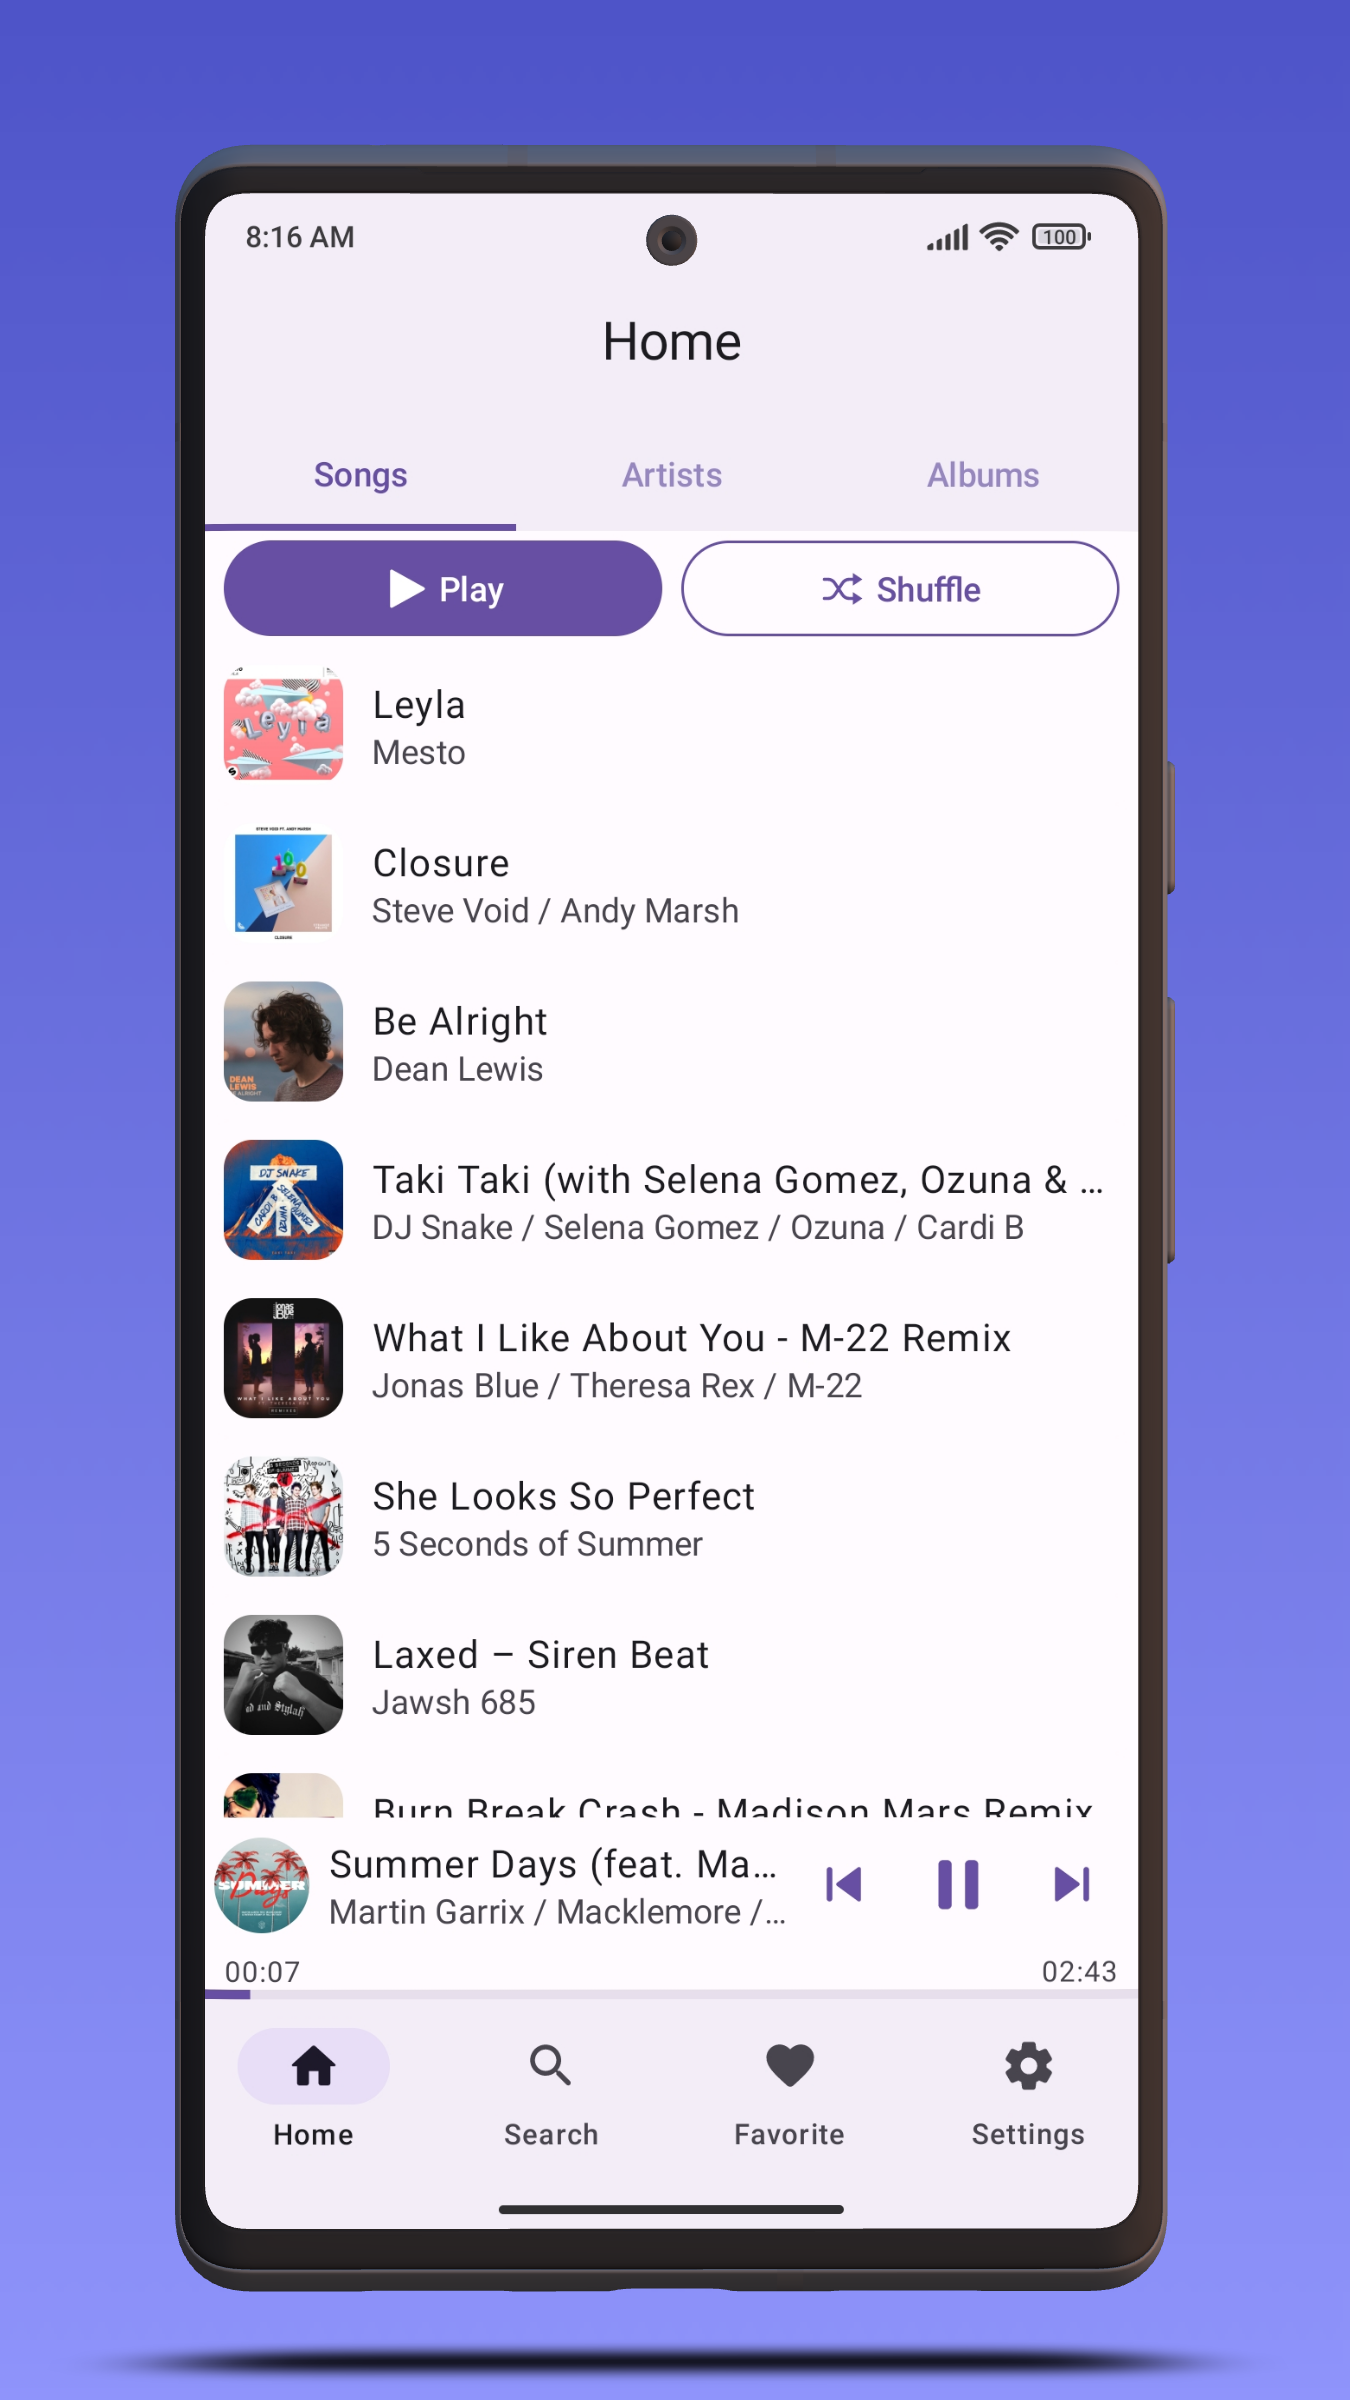
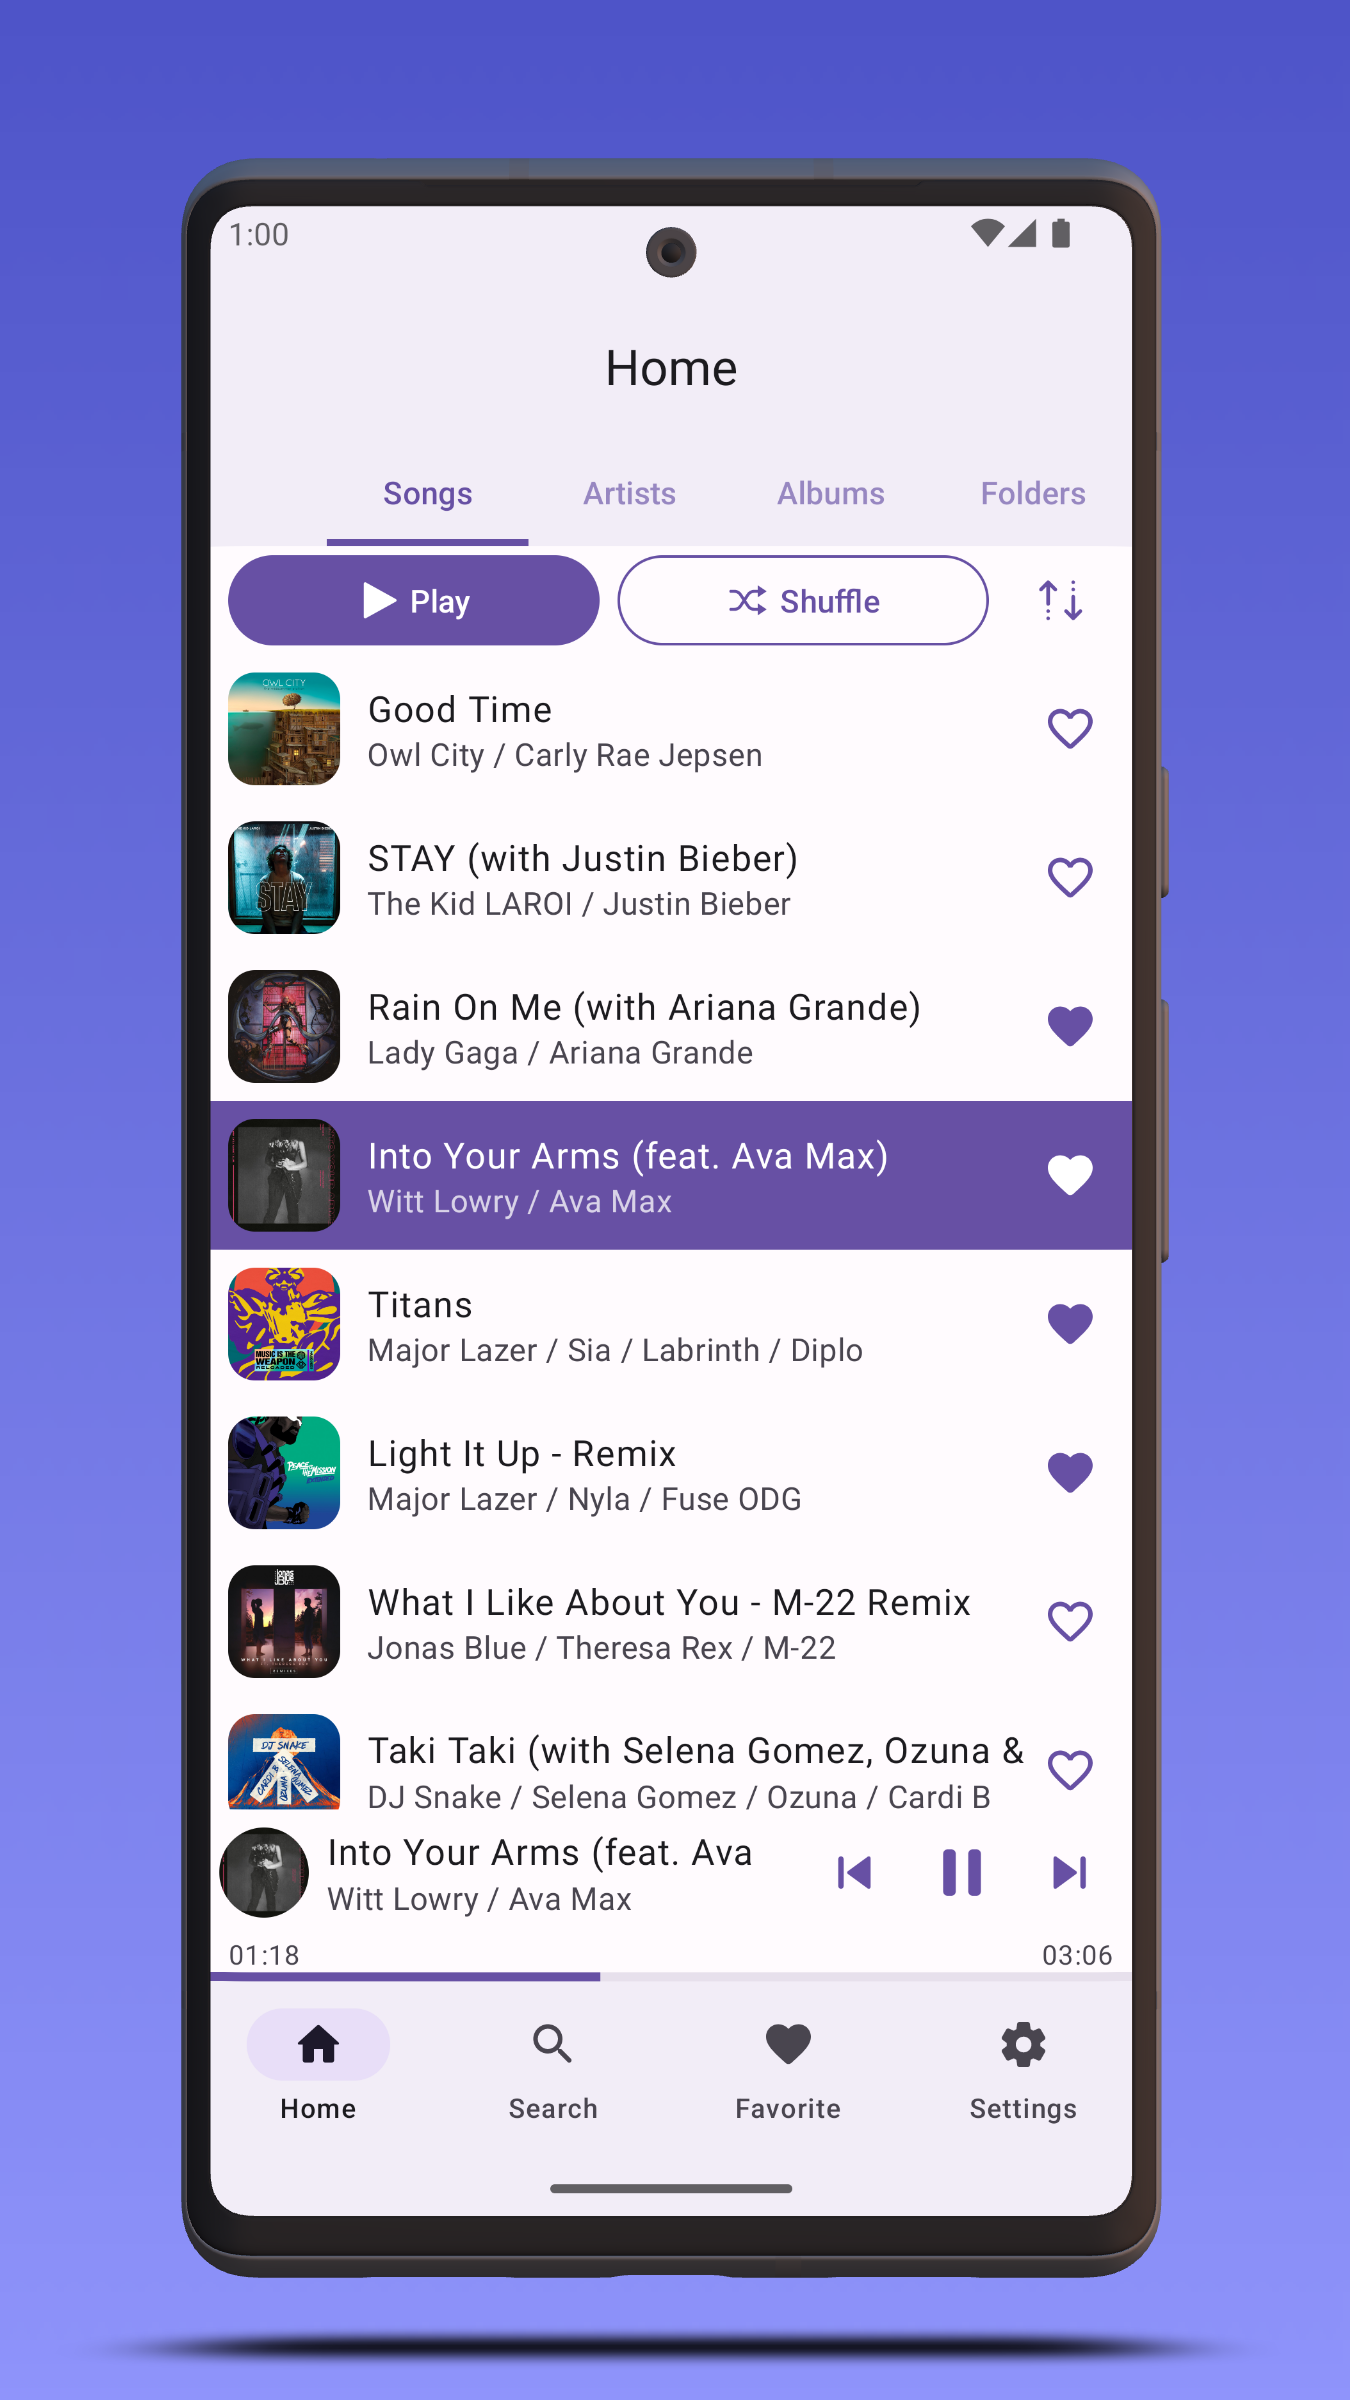
Update preview screenshots (#338)

diff --git a/README.md b/README.md
@@ -11,7 +11,7 @@ or get the apk from the [Releases section](https://github.com/MaximillianLeonov/
 # Preview
 
 <img src="docs/images/screenshot-1-home.png" width="25%"><img src="docs/images/screenshot-2-player.png" width="25%"><img src="docs/images/screenshot-3-artist.png" width="25%"><img src="docs/images/screenshot-4-album.png" width="25%">
-<img src="docs/images/screenshot-5-home.png" width="25%"><img src="docs/images/screenshot-6-search.png" width="25%"><img src="docs/images/screenshot-7-notification.png" width="25%"><img src="docs/images/screenshot-8-settings.png" width="25%">
+<img src="docs/images/screenshot-5-folder.png" width="25%"><img src="docs/images/screenshot-6-search.png" width="25%"><img src="docs/images/screenshot-7-favorite.png" width="25%"><img src="docs/images/screenshot-8-lock-screen.png" width="25%">
 
 # Development Environment
 
